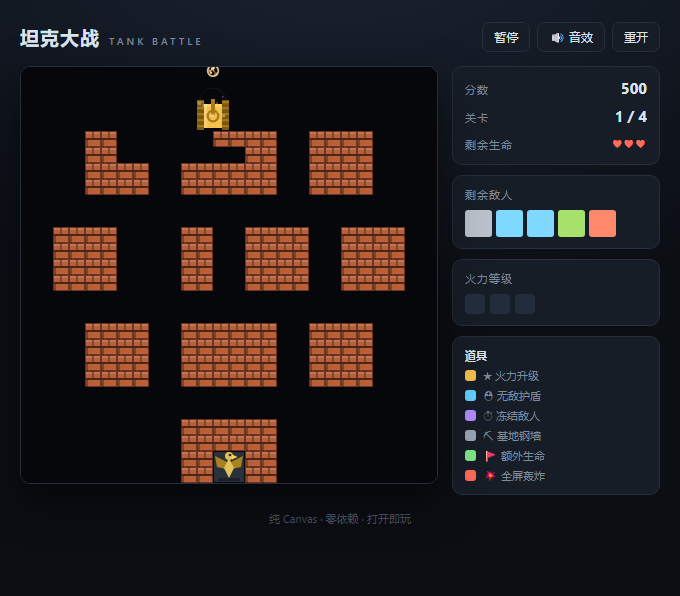
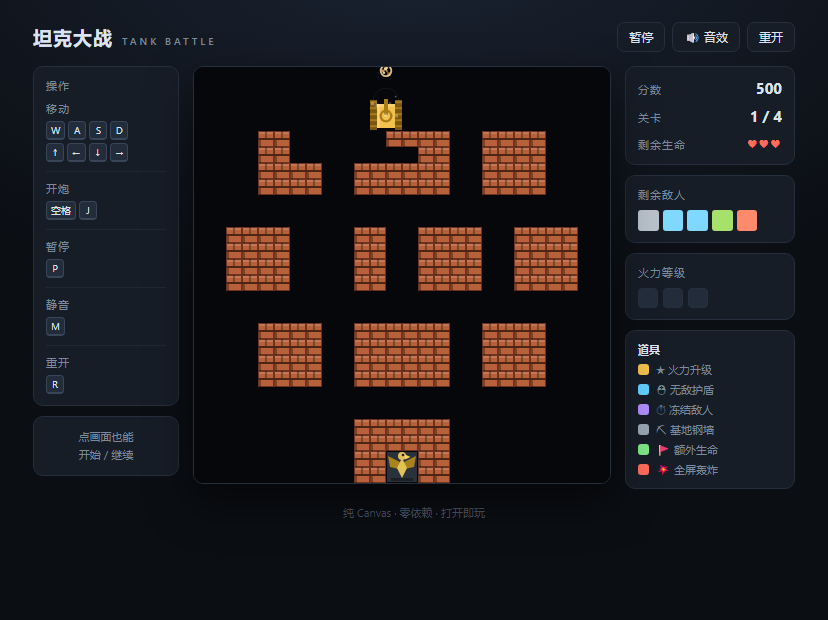
操作提示挪到界面左侧常驻显示
原来是藏在开始遮罩层里的，开打之后看不到。改成左侧加一栏
提示面板（移动/开炮/暂停/静音/重开），跟右侧的分数栏左右对称。

响应式三档：
- >800px  三栏并排
- 620~800 提示挪到画面下方横向铺开
- <620px  单列，提示在最底部两列排布

窄屏那档踩了个坑：flex-direction: column 和 flex-wrap: wrap
一起用会让元素改成往"新的一列"里排，直接横向溢出，得显式
关掉 wrap。已在浏览器里量过各断点的 scrollWidth 确认无溢出。

diff --git a/css/style.css b/css/style.css
@@ -40,7 +40,7 @@ body {
 
 #app {
   width: 100%;
-  max-width: 640px;
+  max-width: 762px;   /* 左提示 146 + 间距 14 + 画面 416 + 间距 14 + 右侧栏 ~170 */
 }
 
 /* ---------------------------------------------------------------- 顶栏 --- */
@@ -206,6 +206,56 @@ kbd {
   padding: 11px 12px;
 }
 
+/* ---------------------------------------------------- 左侧：操作提示 --- */
+
+.side-left {
+  flex: 0 0 146px;
+}
+
+.controls {
+  list-style: none;
+  margin: 0;
+  padding: 0;
+}
+
+.controls li + li {
+  margin-top: 9px;
+  padding-top: 9px;
+  border-top: 1px solid rgba(255, 255, 255, .05);
+}
+
+.controls .k {
+  font-size: 11px;
+  letter-spacing: 1px;
+  color: var(--text-dim);
+  margin-bottom: 5px;
+}
+
+.controls .kb {
+  display: flex;
+  flex-wrap: wrap;
+  gap: 3px;
+}
+
+.controls .kb + .kb {
+  margin-top: 3px;
+}
+
+.controls kbd {
+  min-width: 18px;
+  padding: 1px 4px;
+  font-size: 10px;
+  text-align: center;
+}
+
+.tip p {
+  margin: 0;
+  font-size: 11px;
+  line-height: 1.65;
+  color: var(--text-dim);
+  text-align: center;
+}
+
 .stat {
   display: flex;
   align-items: baseline;
@@ -318,10 +368,47 @@ kbd {
 
 /* ------------------------------------------------------------ 自适应 --- */
 
+/* 三栏排不下时，把操作提示挪到画面下方横向铺开，而不是直接藏掉 */
+@media (max-width: 800px) {
+  #app { max-width: 640px; }
+
+  .stage { flex-wrap: wrap; }
+
+  .side-left {
+    order: 3;
+    flex: 1 1 100%;
+  }
+
+  .side-left .controls {
+    display: grid;
+    grid-template-columns: repeat(3, 1fr);
+    gap: 4px 10px;
+  }
+
+  .controls li + li {
+    margin-top: 0;
+    padding-top: 0;
+    border-top: 0;
+  }
+
+  .side-left .tip { display: none; }
+}
+
 @media (max-width: 620px) {
   body { padding: 14px 10px 22px; }
 
-  .stage { flex-direction: column; align-items: stretch; }
+  /* 注意：column + wrap 会让元素改成往"新的一列"里排，直接横向溢出，
+     所以这里必须显式关掉 wrap */
+  .stage {
+    flex-direction: column;
+    flex-wrap: nowrap;
+    align-items: stretch;
+  }
+
+  /* 单列排布时主轴上不再是宽度，别让 100% 的 flex-basis 捣乱 */
+  .side-left { flex: 0 0 auto; }
+
+  .side-left .controls { grid-template-columns: repeat(2, 1fr); }
 
   #game {
     width: 100%;

diff --git a/index.html b/index.html
@@ -23,6 +23,40 @@
 
   <main class="stage">
 
+    <!-- 左侧：操作提示，常驻显示 -->
+    <aside class="sidebar side-left">
+      <div class="panel">
+        <div class="label block">操作</div>
+        <ul class="controls">
+          <li>
+            <div class="k">移动</div>
+            <div class="kb"><kbd>W</kbd><kbd>A</kbd><kbd>S</kbd><kbd>D</kbd></div>
+            <div class="kb"><kbd>↑</kbd><kbd>←</kbd><kbd>↓</kbd><kbd>→</kbd></div>
+          </li>
+          <li>
+            <div class="k">开炮</div>
+            <div class="kb"><kbd>空格</kbd><kbd>J</kbd></div>
+          </li>
+          <li>
+            <div class="k">暂停</div>
+            <div class="kb"><kbd>P</kbd></div>
+          </li>
+          <li>
+            <div class="k">静音</div>
+            <div class="kb"><kbd>M</kbd></div>
+          </li>
+          <li>
+            <div class="k">重开</div>
+            <div class="kb"><kbd>R</kbd></div>
+          </li>
+        </ul>
+      </div>
+
+      <div class="panel tip">
+        <p>点画面也能<br>开始 / 继续</p>
+      </div>
+    </aside>
+
     <div class="screen">
       <canvas id="game" width="416" height="416"></canvas>
 

diff --git a/README.md b/README.md
@@ -22,7 +22,7 @@
 | 重开 | `R` |
 | 静音 | `M` |
 
-场上也会提示：点画面可以直接开始 / 继续。
+这几个键在游戏界面**左侧常驻显示**，不用记。场上也支持点画面直接开始 / 继续。
 
 ### 规则要点
 
